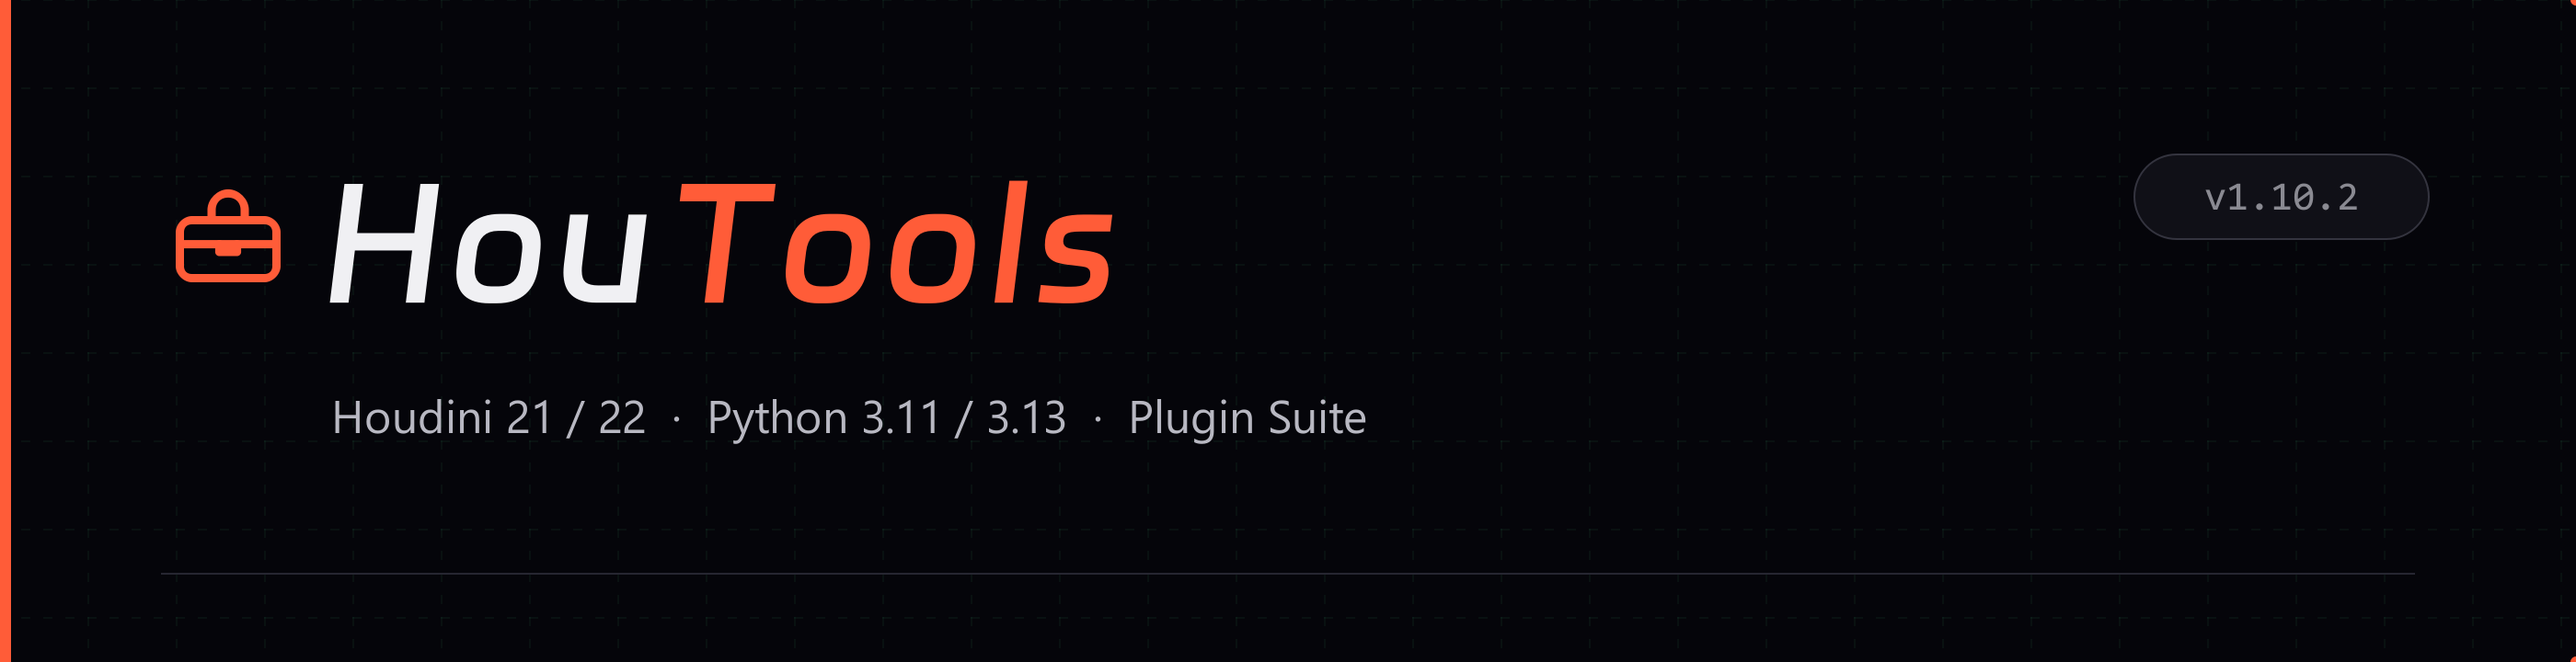
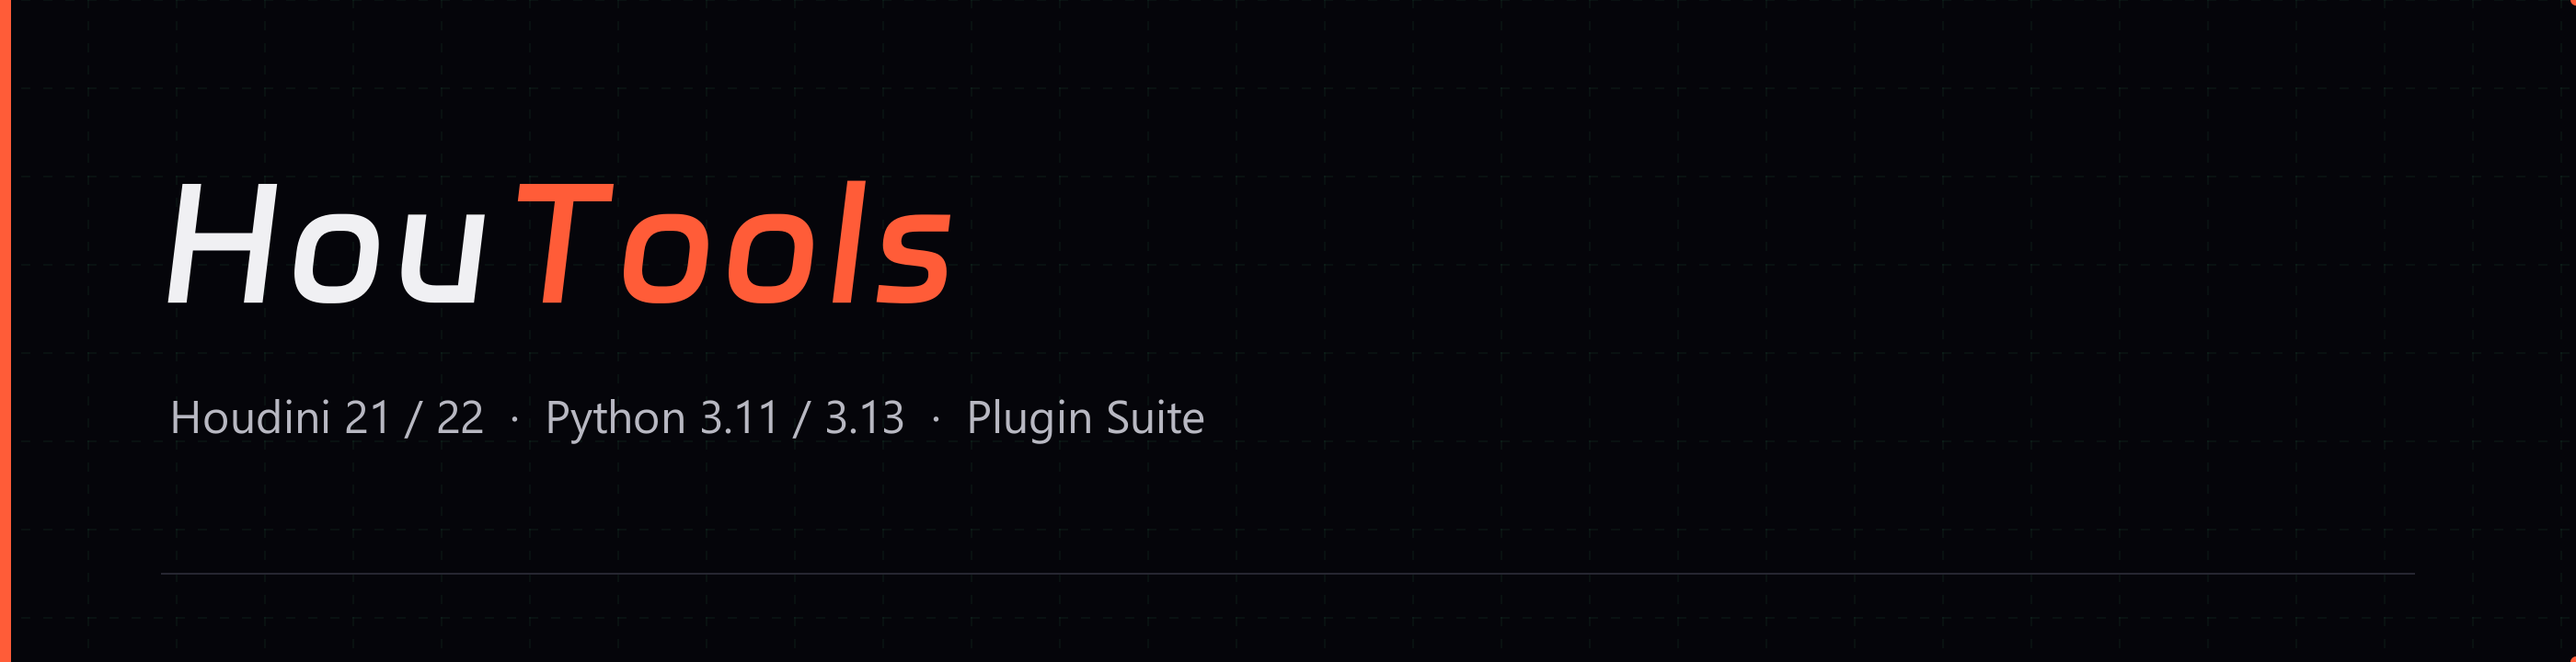
brand: README 头图去图标与版本胶囊（只留字标），环境徽章回退 shields.io 文字徽章——删本地 badge PNG，gen_brand_assets 停止生成

Changed region(s): [[0.0621, 0.275, 0.435, 0.4583], [0.0621, 0.6111, 0.5282, 0.6722], [0.8389, 0.275, 0.9011, 0.3361]]

diff --git a/tests/gen_brand_assets.py b/tests/gen_brand_assets.py
@@ -1,9 +1,11 @@
 """Generate local brand assets for README / docs (offline, no external URLs).
 
 Outputs to ``docs/brand/``:
-- ``houtools-banner.png`` — brand header (ink + blueprint grid + orange rule)
-- ``badge-houdini.png`` / ``badge-python.png`` / ``badge-pyside6.png`` /
-  ``badge-gpl.png`` — local badges (no shields.io)
+- ``houtools-banner.png`` — README brand header (ink + blueprint grid +
+  orange rule + two-color wordmark; no icon, no version pill)
+- ``houtools-wordmark.png`` — transparent two-color wordmark (About page)
+
+README 的环境徽章走 shields.io（仓库最初的文字+徽章形态），不在本地生成。
 
 Run with Houdini's Python (offscreen):
     "C:/.../python313/python.exe" tests/gen_brand_assets.py
@@ -39,7 +41,7 @@ HFS = _find_houdini_root()
 sys.path.append(str(HFS / "python313" / "lib" / "site-packages-forced"))
 os.add_dll_directory(str(HFS / "bin"))
 
-from PySide6 import QtCore, QtGui, QtWidgets, QtSvg  # noqa: E402
+from PySide6 import QtCore, QtGui, QtWidgets  # noqa: E402
 
 OUT = ROOT / "docs" / "brand"
 OUT.mkdir(parents=True, exist_ok=True)
@@ -107,13 +109,7 @@ def banner():
     p.setBrush(QtGui.QColor(ACCENT))
     p.drawRect(0, 0, 6, h)
 
-    # 产品图标（复用 tool 品牌矢量）
-    icon = QtSvg.QSvgRenderer(
-        str(ROOT / "python3.13libs" / "houtools" / "icons"
-            / "brand_product.svg"))
-    if icon.isValid():
-        icon.render(p, QtCore.QRectF(88, 92, 72, 72))
-
+    # 两色字标（无图标、无版本胶囊——版本号走 README 文字，避免每次发版重画头图）
     brand_font = QtGui.QFont(brand_family)
     brand_font.setPixelSize(86)
     brand_font.setWeight(QtGui.QFont.Weight.DemiBold)
@@ -121,31 +117,20 @@ def banner():
     p.setFont(brand_font)
     fm = QtGui.QFontMetrics(brand_font)
     p.setPen(QtGui.QColor(TEXT))
-    p.drawText(QtCore.QRectF(176, 66, 900, 130),
+    p.drawText(QtCore.QRectF(88, 66, 1000, 130),
                QtCore.Qt.AlignLeft | QtCore.Qt.AlignVCenter, "Hou")
     hou_w = fm.horizontalAdvance("Hou") + brand_font.letterSpacing()
     p.setPen(QtGui.QColor(ACCENT))
-    p.drawText(QtCore.QRectF(176 + hou_w, 66, 900 - hou_w, 130),
+    p.drawText(QtCore.QRectF(88 + hou_w, 66, 1000 - hou_w, 130),
                QtCore.Qt.AlignLeft | QtCore.Qt.AlignVCenter, "Tools")
 
     sub_font = QtGui.QFont(ui_family)
     sub_font.setPixelSize(25)
     p.setFont(sub_font)
     p.setPen(QtGui.QColor(TEXT_2))
-    p.drawText(QtCore.QRectF(180, 200, 1000, 50),
+    p.drawText(QtCore.QRectF(92, 200, 1000, 50),
                QtCore.Qt.AlignLeft | QtCore.Qt.AlignVCenter,
                "Houdini 21 / 22  ·  Python 3.11 / 3.13  ·  Plugin Suite")
-
-    # 右侧版本胶囊
-    ver_font = QtGui.QFont("Consolas")
-    ver_font.setPixelSize(22)
-    p.setFont(ver_font)
-    ver_rect = QtCore.QRectF(1160, 84, 160, 46)
-    p.setPen(QtGui.QPen(QtGui.QColor(LINE_STRONG), 1))
-    p.setBrush(QtGui.QColor(INK_900))
-    p.drawRoundedRect(ver_rect, 23, 23)
-    p.setPen(QtGui.QColor(TEXT_3))
-    p.drawText(ver_rect, QtCore.Qt.AlignCenter, "v1.10.2")
 
     # 底部细线 + 四角点
     p.setPen(QtGui.QPen(QtGui.QColor(LINE), 1))
@@ -156,35 +141,6 @@ def banner():
     path = OUT / "houtools-banner.png"
     ok = pm.save(str(path), "PNG")
     print("banner", path, "ok" if ok else "FAIL")
-    return ok
-
-
-def badge(name, label, dot_color):
-    w, h = 260, 56
-    pm = QtGui.QPixmap(w * 2, h * 2)
-    pm.setDevicePixelRatio(2.0)
-    pm.fill(QtCore.Qt.transparent)
-    p = QtGui.QPainter(pm)
-    p.setRenderHint(QtGui.QPainter.RenderHint.Antialiasing, True)
-    rect = QtCore.QRectF(1, 1, w - 2, h - 2)
-    p.setPen(QtGui.QPen(QtGui.QColor(LINE), 1))
-    p.setBrush(QtGui.QColor(INK_900))
-    p.drawRoundedRect(rect, 8, 8)
-    # 语义色点
-    p.setPen(QtCore.Qt.PenStyle.NoPen)
-    p.setBrush(QtGui.QColor(dot_color))
-    p.drawEllipse(QtCore.QPointF(24, h / 2), 4, 4)
-    f = QtGui.QFont(ui_family)
-    f.setPixelSize(19)
-    f.setWeight(QtGui.QFont.Weight.DemiBold)
-    p.setFont(f)
-    p.setPen(QtGui.QColor(TEXT_2))
-    p.drawText(QtCore.QRectF(42, 0, w - 58, h),
-               QtCore.Qt.AlignLeft | QtCore.Qt.AlignVCenter, label)
-    p.end()
-    path = OUT / ("badge-%s.png" % name)
-    ok = pm.save(str(path), "PNG")
-    print("badge", path, "ok" if ok else "FAIL")
     return ok
 
 
@@ -232,10 +188,6 @@ def main():
     results = [
         banner(),
         wordmark(),
-        badge("houdini", "Houdini 21 / 22", ACCENT),
-        badge("python", "Python 3.11 / 3.13", WARNING),
-        badge("pyside6", "PySide6 6.8", SUCCESS),
-        badge("gpl", "GPL-3.0", TEXT_3),
     ]
     print("done:", all(results))
     if not all(results):

diff --git a/README.md b/README.md
@@ -1,6 +1,6 @@
 ![HouTools 品牌头图](docs/brand/houtools-banner.png)
 
-![Houdini 21 / 22](docs/brand/badge-houdini.png) ![Python 3.11 / 3.13](docs/brand/badge-python.png) ![PySide6 6.8](docs/brand/badge-pyside6.png) ![GPL-3.0](docs/brand/badge-gpl.png)
+![Houdini 21/22](https://img.shields.io/badge/Houdini-21.0%20%7C%2022.0-FF4747?logo=sidefx&logoColor=white) ![Python 3.11/3.13](https://img.shields.io/badge/Python-3.11%20%7C%203.13-3776AB?logo=python&logoColor=white) ![PySide6](https://img.shields.io/badge/PySide6-6.8.3-41CD52?logo=qt&logoColor=white) ![Platform Windows](https://img.shields.io/badge/Platform-Windows-0078D6?logo=windows11&logoColor=white) ![License GPL-3.0](https://img.shields.io/badge/License-GPL--3.0-blue?logo=gnu&logoColor=white)
 
 Houdini 21/22 插件工具集——一份代码两版通用（21.0 走 Python 3.11 入口壳，22.0 走 Python 3.13），开发期支持**手动热加载**：改完代码无需重启 Houdini。
 
@@ -380,7 +380,7 @@ HouTools/
 ├── docs/                         # 离线使用手册（About HouTools 菜单用默认浏览器打开，零外部网络资源）
 │   ├── index.html                # 手册页面（品牌 token / 字体 / 轮播 JS 全部内联或本地）
 │   ├── brand.md                  # 品牌手册（token / 组件 / 图标 / 文案 do&don't）
-│   ├── brand/                    # README 品牌头图 + 本地徽章（tests/gen_brand_assets.py 生成）
+│   ├── brand/                    # README 品牌头图 + 字标（tests/gen_brand_assets.py 生成；环境徽章走 shields.io）
 │   ├── fonts/                    # 钉钉进步体 woff2（离线 @font-face）
 │   └── about_shots/              # 轮播工具截图（tests/gen_about_shots.py 离屏生成，窗口 UI 变更后重跑）
 ├── python_panels/Automation.pypanel  # Automation 的 Python Panel 界面

diff --git a/AGENTS.md b/AGENTS.md
@@ -33,11 +33,11 @@ root/
 │   ├── test_theme_tokens.py     # token lint（theme.py 外禁裸 hex；docs :root/内联 SVG 豁免）+ 对比度
 │   ├── test_fonts.py            # 字体文件/角色回退/逐控件 stamping + ChildAdded enforcer
 │   ├── gen_about_shots.py       # 离屏重生成 docs/about_shots/*.png（无 HDR 库时合成演示库）
-│   └── gen_brand_assets.py      # 离屏重生成 docs/brand/ 品牌头图 + 本地徽章
+│   └── gen_brand_assets.py      # 离屏重生成 docs/brand/ 品牌头图 + 字标（README 环境徽章走 shields.io，不本地生成）
 ├── docs/
 │   ├── index.html               # About 离线使用手册（品牌 token / 钉钉进步体 woff2 / 真实截图，零外部资源）
 │   ├── brand.md                 # 品牌手册（token / 组件 / 图标 / 文案 do&don't / 验收）
-│   ├── brand/                   # README 品牌头图与本地徽章（gen_brand_assets.py 生成）
+│   ├── brand/                   # README 品牌头图与字标（gen_brand_assets.py 生成）
 │   ├── fonts/                   # DingTalk-JinBuTi.woff2（离线 @font-face）
 │   └── about_shots/             # 真实窗口截图（gen_about_shots.py 生成）
 ├── dev-notes/                     # ★ 各功能实现细节与坑表（本文件表格巨行的拆分，改对应模块前必读；不入发行包）
